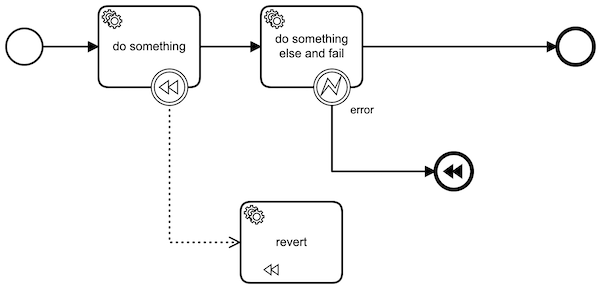
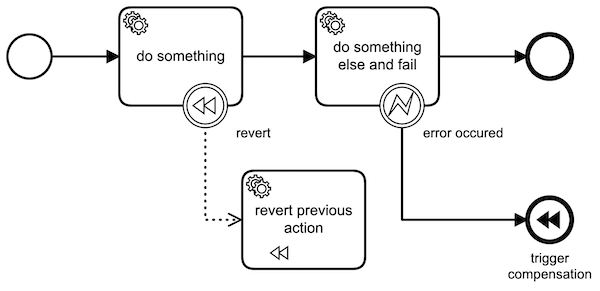
Changed compensation model and resized image in README.md

diff --git a/error-handling/README.md b/error-handling/README.md
@@ -18,7 +18,7 @@ technical nature but can also be business errors which were not considered durin
 - Error BE - the process model has an error path to handle expected errors
 
 ## Example
-Sync and async do not differ in the model
+Sync and async do not differ in the model. The async execution is reached by setting the `asyncBefore` option in the modeller for the `do something and fail` activity
 
 ![sync bpmn model|300x200,20%](src/main/resources/bpmn/error_sync.png)
 
